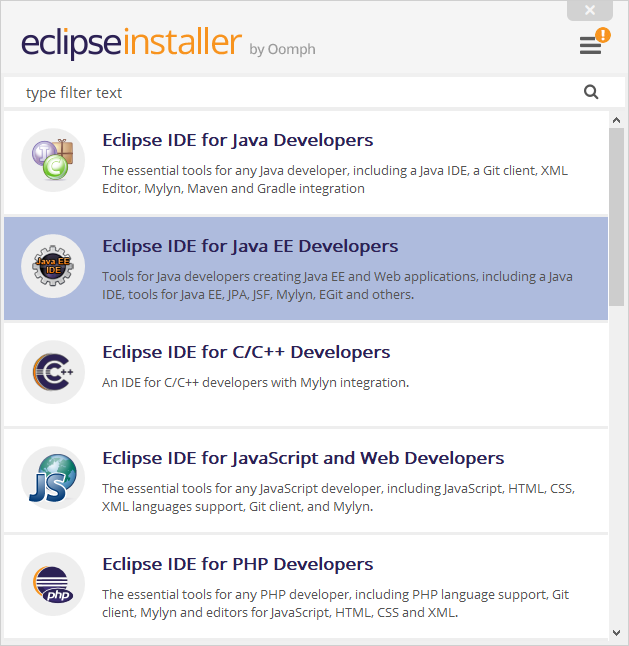
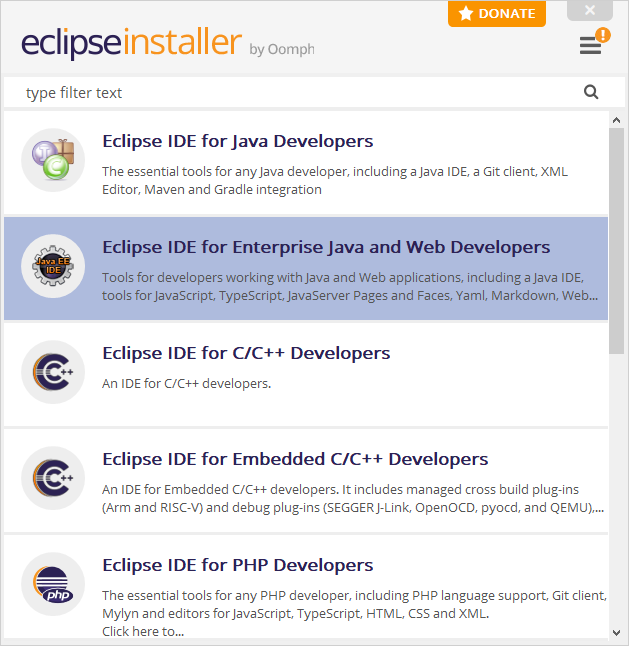
eclipse ee tut

diff --git a/tutorials/java-server/_posts/2017-06-04-eclipse-ee.md b/tutorials/java-server/_posts/2017-06-04-eclipse-ee.md
@@ -1,63 +1,69 @@
 ---
 layout: tutorial
 title: Eclipse EE
-thumbnail: /tutorials/java/images/eclipse-16.png
+thumbnail: /tutorials/java/images/eclipse-15.png
 tagline: Use Eclipse to write server code.
 sort-key: 400
 meta-title: Eclipse EE
 meta-description: Learn how to use Eclipse to write server code.
 meta-image: /tutorials/java/images/eclipse-15.png
 tags: [tutorial, java, server, eclipse]
+previousPost: /tutorials/java-server/jsp
+nextPost: /tutorials/java-server/post
+updated: 2021-09-05
 ---
 {% include toc.md %}
 
-So far we've been writing all of our code in a basic text editor, and compiling our servlet classes via the command prompt. It's important to understand the basics of how a web app works: stuff like running the server (in Jetty, that's the `start.jar` file), setting up `web.xml`, and writing and compiling servlet classes and copying them into the `WEB-INF/classes` directory.
+So far you've been writing all of your code in a text editor, and compiling your servlet classes via the command prompt. It's important to understand the fundamentals of how a web app works: stuff like running the server, and writing and compiling servlet classes.
 
-But as our code gets more complicated, using an [IDE](https://en.wikipedia.org/wiki/Integrated_development_environment) like [Eclipse](https://eclipse.org/) will make our lives much easier.
+But as your code gets more complicated, using a [code editor](https://en.wikipedia.org/wiki/Integrated_development_environment) like [Eclipse](https://eclipse.org/) will make your life much easier.
 
 This tutorial assumes you're already familiar with Eclipse from [the Eclipse tutorial](/tutorials/java/eclipse), so I won't spend a ton of time introducing ideas like workspaces and projects. Instead, this tutorial talks about using Eclipse to develop web apps.
 
-## Enterprise Edition
+# Enterprise Edition
 
-You might have seen stuff referred to as EE, as in Java EE or Eclipse EE. That *EE* stands for Enterprise Edition, which is basically just versions of Java and Eclipse that include tools for server development.
+You might have seen stuff referred to as EE, as in Java EE, Jakarta EE, or Eclipse EE. That *EE* stands for Enterprise Edition, which are versions of Java and Eclipse that include tools for server development.
 
-I think the term is a little outdated, because it dates back to a time when the only interactive websites that existed were owned by businesses: stuff like online stores. That's where the term *enterprise* (which is just another word for *business*) comes from. Now interactive websites are all over the place, not just owned by businesses. But we've kept using the term EE to describe stuff used for developing interactive websites.
+I think the term "enterprise" is a little outdated, because it comes from a time when the only interactive websites that existed were owned by businesses, like online stores. That's where the term *enterprise* (aka *business*) comes from. Now interactive websites are all over the place, not just owned by businesses. But we've kept using the term EE to describe stuff used for developing interactive websites.
 
-You've actually already been using Java EE. It's the tools and `.jar` files that come with your Jetty server. When you add `servlet-api-3.1.jar` to your classpath so you can use the `HttpServlet` class, you're using Java EE. When you use JSP, you're using Jave EE. Java EE isn't an alternative to regular old Java- it's built on top of it.
+Anyway, you've already been using Jakarta EE. It's the tools and `.jar` files that come with your Jetty or Tomcat server. When you add your server's `lib` directory to your classpath, or when you add the `jakarta.servlet` dependency to your `pom.xml` file, you're using Jakarta EE. When you use JSP, you're using Jakarta EE.
 
-Simlarly, Eclipse EE is a version of Eclipse that comes with a bunch of tools that make it easier to write server code. Remember how Eclipse let you compile and run a Java file just by pressing the play button? Eclipse EE lets you compile and run a server just by pressing the play button!
+Jakarta EE isn't an alternative to regular old Java- it's built on top of it.
 
-## Do you already have Eclipse EE?
+Similarly, Eclipse EE is a version of Eclipse that comes with a bunch of tools that make it easier to write server code. Remember how Eclipse let you compile and run a Java file by pressing the play button? Eclipse EE lets you compile and run a server by pressing the play button!
 
-If you already have Eclipse, let's check whether you already have the EE version. Open Eclipse, and then go to `Help > About Eclipse`. The window that pops up tells you which version you have.
+# Do you already have Eclipse EE?
+
+If you already have Eclipse, you might already have the EE version. To check, open Eclipse, and then go to `Help > About Eclipse`. The window that pops up tells you which version you have.
 
 - `Eclipse IDE for Java Developers` means you have the standard edition, so you need to download Eclipse EE.
-- `Eclipse Java EE IDE for Web Developers` means you have the EE version, so you can skip the next step.
+- `Eclipse IDE for Enterprise Java and Web Developers` means you have the EE version, so you can skip the next step.
 
-## Download Eclipse EE
+# Download Eclipse EE
 
-Go to the [Eclipse download page](https://www.eclipse.org/downloads/) and download the installer. When the installer launches, a dialog asks you which version to install. Choose `Eclipse IDE for Java EE Developers`:
+Go to the [Eclipse download page](https://www.eclipse.org/downloads/) and download and run the installer. When the installer launches, a dialog asks you which version to install. Choose `Eclipse IDE for Enterprise Java and Web Developers`:
 
 ![Eclipse installer](/tutorials/java-server/images/eclipse-ee-1.png)
 
-Step through the installation process and then launch Eclipse EE. In the workspace chooser that pops up, I recommend creating a new workspace directory instead of reusing an existing workspace. If you see a welcome tab, you can close this it (and uncheck "Always show Welcome at startup" if you want). Finally, you should see something that looks like this:
+Step through the installation process and then launch Eclipse EE.
 
+In the workspace chooser that pops up, I recommend creating a new workspace directory instead of reusing an existing workspace. If you see a welcome tab, you can close it. Finally, you should see something that looks like this:
 
 ![Eclipse EE](/tutorials/java-server/images/eclipse-ee-2.png)
 
-This means that Eclipse EE is running. Now we can start creating servers and web apps!
+This means that Eclipse EE is running. Now you can start creating servers and web apps!
 
-## Eclipse Jetty
+# Importing Maven Projects
 
-To use Jetty from Eclipse, we're going to install the [Eclipse Jetty plugin](http://eclipse-jetty.github.io/).
+The examples in these tutorials are packaged as Maven projects. You can view all of them [here](https://github.com/KevinWorkman/HappyCoding/tree/gh-pages/examples/java-server/java-server-example-projects).
 
-Open the Eclipse Marketplace by going to `Help > Eclipse Marketplace...`, and then type `Jetty` in the search box. You should see a plugin called Eclipse Jetty:
+To import one of these projects, go to `File > Import...` and then in the dialog that pops up, select `Maven > Existing Maven Projects`. For the root directory, navigate to a directory that contains a `pom.xml` file. Then click the `Finish` button.
 
-![Eclipse Jetty](/tutorials/java-server/images/eclipse-ee-4.png)
+![import Maven project](/tutorials/java-server/images/eclipse-ee-14.png)
 
-Install Eclipse Jetty. You'll have to accept its license and then click OK in a box warning you about installing software. You'll also be asked to restart Eclipse. When it comes back up, you're done!
+# Creating Non-Maven Projects
 
-## New Project
+I recommend using Maven, but if you don't want to use Maven for some reason, you can create a project without it.
 
 Go to `File > New > Project...` and in the dialog that pops up, go to `Web > Dynamic Web Project` and click `Next`.
 
@@ -67,138 +73,90 @@ On the next screen, give your project a name. The default settings for everythin
 
 ![New Project settings dialog](/tutorials/java-server/images/eclipse-ee-6.png)
 
-You can click through the rest of the settings using the `Next` button, or you can just click the `Finish` button to accept the default changes.
+Click the `Next` button until you get to a screen that contains a `Generate web.xml deployment descriptor` checkbox. **Uncheck** that checkbox, because you're going to use the `@WebServlet` annotation instead of a `web.xml` file.
+
+![web module settings](/tutorials/java-server/images/eclipse-ee-15.png)
+
+Finally, click the `Finish` button.
 
 You should now see your project in the `Project Explorer` tab.
 
 ![Eclipse EE project](/tutorials/java-server/images/eclipse-ee-7.png)
 
-It's empty for now, but we can see how the project is organized:
-
-- `Java Resources`: This is where servlets and other Java classes will go.
-- `JavaScript Resources`: JavaScript files in your webpage will show up here so you can edit them.
-- `WebContent`: This is the top-level publically available directory. This is where static files go.
-- `WEB-INF`: Files in here are hidden from public access. This is where `web.xml` and other files you don't want users to access directly will go.
-
-You can ignore the other stuff for now. Also note that your Java classes will go inside the `src` directory under the `JavaResources` - you don't have to compile them into the `classes` directory yourself anymore! We'll see that in action in a second.
-
-## Servlet Classpath
-
-One last thing we need to do is add the servlet API to our project's classpath. This will give us access to Java EE classes like `HttpServlet` and `HttpServletRequest`. We did this using the `-cp path/to/jetty/lib/servlet-api-3.1.jar` when we were using the console. In Eclipse, we need to add that `.jar` file to our Java build path.
-
-To do that, right-click your project, then go to `Properties`, and in the dialog that pops up go to the `Java Build Path` section. You should see this:
-
-![Java Build Path before](/tutorials/java-server/images/eclipse-ee-8.png)
-
-This shows the list of libraries on your classpath. To add the servlet API to the classpath, click the `Add External JARs...` button, and then select the `servlet-3.1.jar` file in your Jetty directory. You should now see this:
-
-![Java Build Path after](/tutorials/java-server/images/eclipse-ee-9.png)
-
-Now we're ready to write some code!
+**Note:** If your project contains a `web.xml` file, delete it! Apparently unchecking the checkbox might not work.
 
 ## Writing Code
 
-Let's start by creating a servlet. Right-click the `src` directory, then go to the `New` menu, and select the `Class` option. Name your class `HelloWorldServlet`, and click the `Finish` button.
+Now that you have a non-Maven project, try creating a servlet. Right-click the `src/main/java/` directory, then go to the `New` menu, and select the `Class` option. Name your class `HelloWorldServlet`, and click the `Finish` button.
 
 That should open up the Java editor. Enter this code into it:
 
 ```java
-import java.io.IOException;
-import javax.servlet.ServletException;
-import javax.servlet.http.HttpServlet;
-import javax.servlet.http.HttpServletRequest;
-import javax.servlet.http.HttpServletResponse;
+package io.happycoding.servlets;
 
+import java.io.IOException;
+import jakarta.servlet.annotation.WebServlet;
+import jakarta.servlet.http.HttpServlet;
+import jakarta.servlet.http.HttpServletRequest;
+import jakarta.servlet.http.HttpServletResponse;
+
+@WebServlet("/hello")
 public class HelloWorldServlet extends HttpServlet {
 
-	@Override
-	public void doGet(HttpServletRequest request, HttpServletResponse response) throws IOException, ServletException {
-
-		String message = "Happy Coding!";
-
-		request.setAttribute("message", message);
-		request.getRequestDispatcher("WEB-INF/HelloWorld.jsp").forward(request,response);
-	}
+  @Override
+  public void doGet(HttpServletRequest request, HttpServletResponse response)
+      throws IOException {
+    response.setContentType("text/html;");
+    response.getWriter().println("<h1>Hello world!</h1>");
+  }
 }
 ```
 
-This code creates a basic servlet that adds a message to the request and forwards it to a JSP file. Next, let's create that JSP file. Right-click the `WEB-INF` directory, expand the `New` menu, and then select the `JSP File` option. Name the file `HelloWorld.jsp` and click the `Finish` button.
-
-That opens up a JSP editor. You can delete any template code that's automatically added, and enter this JSP code:
-
-```jsp
-<!DOCTYPE html>
-<html>
-	<head>
-		<title>Hello World</title>
-	</head>
-	<body>
-		<h1>Hello World</h1>
-		<p>Message: ${message}</p>
-	</body>
-</html>
-```
-
-This JSP just displays the `message` using the EL `${}` syntax.
-
-Finally, let's create a `web.xml` file that tells our server to map URLs to our servlet. Right-click the `WEB-INF` directory, expand the `New` menu, and then select the `Other` option. In the dialog that pops up, expand the `XML` directory and select the `XML File` option. Click `Next`, and then name your file `web.xml` and click `Finish`.
-
-That opens up the XML editor. If the `Design` tab is selected, switch to the `Source` tab. Enter this XML:
-
-```xml
-<web-app
-	xmlns="http://xmlns.jcp.org/xml/ns/javaee"
-	xmlns:xsi="http://www.w3.org/2001/XMLSchema-instance"
-	xsi:schemaLocation="http://xmlns.jcp.org/xml/ns/javaee
-		http://xmlns.jcp.org/xml/ns/javaee/web-app_3_1.xsd"
-	version="3.1">
-
-	<servlet>
-		<servlet-name>HelloWorldServlet</servlet-name>
-		<servlet-class>HelloWorldServlet</servlet-class>
-	</servlet>
-
-	<servlet-mapping>
-		<servlet-name>HelloWorldServlet</servlet-name>
-		<url-pattern>index.html</url-pattern>
-	</servlet-mapping>
-
-</web-app>
-```
-
-Your project should now look like this:
-
 ![project after setup](/tutorials/java-server/images/eclipse-ee-10.png)
 
-## Running Jetty
+This example is a servlet file, but you can also create HTML and JSP files from Eclipse, just like you've been doing so far!
 
-Now that we have a web app project, we need to tell Eclipse to run it using Jetty. You only have to do this step once for each project you create.
+## Enable Annotations
 
-With your project open, open the `Run` menu, and then click the `Run Configurations...` option. In the dialog that pops up, select the `Jetty Webapp` tab, and then click the `New` button (it looks like a piece of paper with a plus sign) in the upper-left corner.
+Because the servlets in these tutorials use the `@WebServlet` annotation instead of a `web.xml` file, you need to tell Eclipse to enable annotations. You only need to do this if you're **not** using Maven.
 
-That opens up a configuration panel where you can change a bunch of settings. Here are the ones we care about now:
+1. Right-click on your project and then select `Properties`.
+2. Open `Java Compiler > Annotation Processing` and then check the `Enable annotation processing` checkbox.
+3. Click the `Apply and Close` button.
 
-- `Context Path` is the part of the URL after the domain. If you leave this as `/`, then your webapp will be at `http://localhost:8080`. If you change it to `HelloWorld`, your webapp will be at `http://localhost:8080/HelloWorld/`. Let's change it to `HelloWorld` for now.
-- The `Options` tab allows you to specify which Jetty version to use. The default uses a Jetty server that comes with the Eclipse plugin, but let's use the version of Jetty we already have. Select the `Use Jetty at path` radio button, and then click the `External...` button and navigate to your Jetty directory.
+![annotations settings](/tutorials/java-server/images/eclipse-ee-20.png)
 
-Your run configuration should look like this:
+# Running Tomcat
 
-![run configuration](/tutorials/java-server/images/eclipse-ee-11.png)
+Now that you have a Maven or non-Maven project in your Eclipse workspace, you can run your server from Eclipse.
 
-You're done! Click the `Run` button!
+Right-click on your project, and then click `Run As > Run on Server`.
 
-You should see some stuff print to the console in Eclipse. That means your server is running, and you can access your web app! Open a browser to [http://localhost:8080/HelloWorld/index.html](http://localhost:8080/HelloWorld/index.html), and you should see this:
+![run on server](/tutorials/java-server/images/eclipse-ee-16.png)
 
-![Hello World web app](/tutorials/java-server/images/eclipse-ee-12.png)
+In the dialog that pops up, select the Tomcat version that you downloaded previously, and then click the `Next` button.
 
-Try changing the value of `message` in the `HelloWorldServlet` class. Click the `Stop` button (it looks like a red square in the `Console` tab in Eclipse) to stop the server. Then click the `Run` button (it looks like a green play button towards the top of Eclipse) to run the server again. Refresh the page, and you should see the new message!
+![tomcat 10 server](/tutorials/java-server/images/eclipse-ee-17.png)
 
-## Summary
+On the next screen, set the `Tomcat installation directory` to your Tomcat directory.
 
-Eclipse gives you a bunch of cool features: it tells you about compiler error directly in the editor, it offers autocomplete and auto-fixing of code, and it makes it easier to compile your code and run a server.
+![tomcat 10 server](/tutorials/java-server/images/eclipse-ee-18.png)
 
-But you don't **have** to use Eclipse. You can stick with a basic text editor and the console if you want. And in fact, I think it's really important to understand the basics of what's going on behind the scenes (knowing how to run Jetty and how it's finding web apps and mapping them to URLs). You could also use another IDE designed for writing code instead of Eclipse if you want.
+Then click the `Finish` button!
 
-No matter how you write code, the process is the same: you create a `web.xml` file that maps a URL to a servlet class, you create a servlet class that contains your logic, and you create JSP files that render your view, which can use static files in the visible directory. You then run the server and visit your web app in a browser. Eclipse just makes stuff like compiling and running a little simpler. There's no magic!
+Eclipse will run your Tomcat server and automatically deploy your project to it. Eclipse might open an internal web browser, but I usually close that and open my normal web browser to `localhost:8080`, just like you did  in the previous tutorials.
 
-# Next: [Post Requests](/tutorials/java-server/post)
+![tomcat 10 server running](/tutorials/java-server/images/eclipse-ee-19.png)
+
+Now you can run, stop, and restart your server directly from Eclipse, using the button in the upper-right corner of the `Servers` tab.
+
+Try changing the value of `message` in the `HelloWorldServlet` class. Click the `Stop` button (it looks like a red square in the `Servers` tab in Eclipse) to stop the server. Then click the `Run` button (it looks like a green play button towards the top of Eclipse) to run the server again. Refresh the page, and you should see the new message!
+
+# Summary
+
+Eclipse gives you a bunch of cool features: it tells you about compiler errors directly in the editor, and it provides autocomplete and makes it easier to compile your code and run a server.
+
+But you don't **have** to use Eclipse. You can stick with a text editor and the command line if you want. And in fact, I think it's really important to understand the fundamentals of what's going on behind the scenes. You could also use another IDE, like Intellij.
+
+No matter how you write code, the process is the same: you write your code, and then run the server and visit your web app in a browser. Eclipse makes stuff like compiling and running a little easier, but there's no magic!
+

diff --git a/tutorials/java/_posts/2017-04-22-eclipse.md b/tutorials/java/_posts/2017-04-22-eclipse.md
@@ -1,7 +1,7 @@
 ---
 layout: tutorial
 title: Eclipse
-thumbnail: /tutorials/java/images/eclipse-16.png
+thumbnail: /tutorials/java/images/eclipse-15.png
 tagline: Upgrade your code editor.
 sort-key: 800
 meta-title: Eclipse
